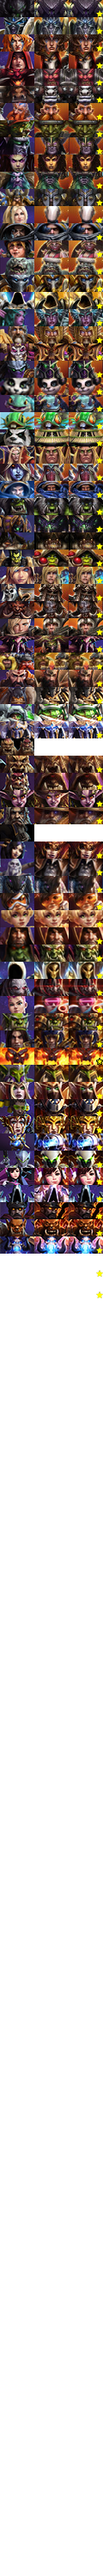
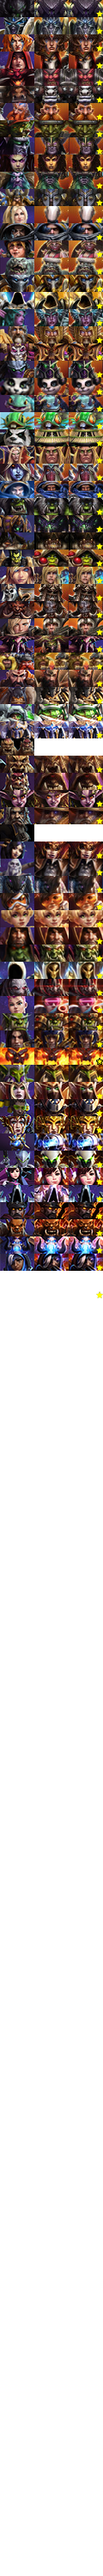
Update subreddit for Ana release
New banner
New flair
Updated subscriber count text

Changed region(s): [[0.0, 0.465, 1.0, 0.496]]

diff --git a/custom.scss b/custom.scss
@@ -604,7 +604,7 @@ a.voteWeight {
 
 div.titlebox span.number:after {
   z-index: 1;
-  content: " Archliches of Naxxramas, Esteemed Lich Lords of the Plaguelands, Commanders of the Dread Necropolis, Masters and Founders of the Cult of the Damned, Formerly of the Council of Six, Creators of the Abomination, Corrupters of the Sunwell, Summoners of Archimonde the Defiler, Betrayers of Humanity, Hearthstone Enthusiasts, and Majordomos to the Lich King Himself"
+  content: " Veteran Snipers"
 }
 
 .titlebox .users-online {
@@ -621,7 +621,7 @@ div.titlebox span.number:after {
 
 .titlebox .users-online .number:after {
   z-index: 1;
-  content: " petting Mr. Bigglesworth"
+  content: " putting heroes to sleep
 }
 
 .titlebox .number,

diff --git a/user_flair/hero_flair.scss b/user_flair/hero_flair.scss
@@ -77,3 +77,4 @@
 @include hero-flair-set("stukov",      70);
 @include hero-flair-set("garrosh",     71);
 @include hero-flair-set("kelthuzad",   72);
+@include hero-flair-set("ana",         73);
